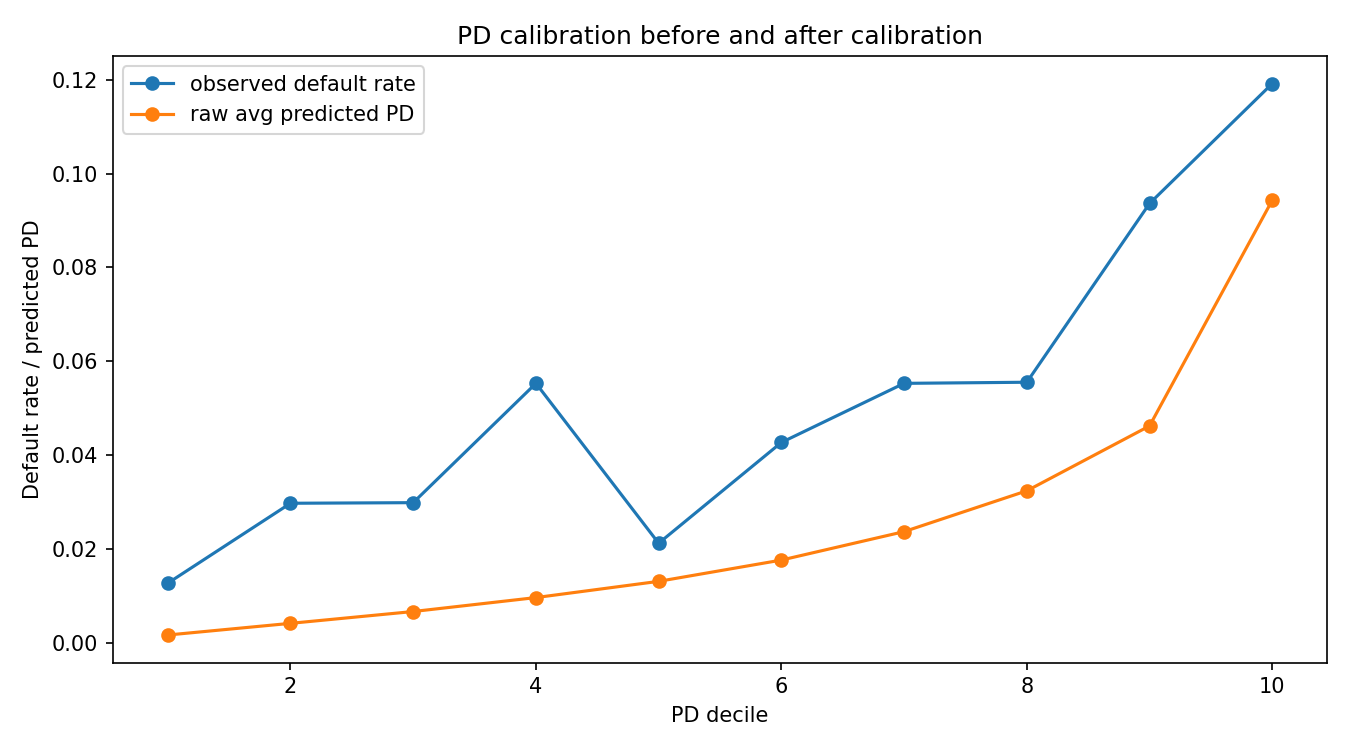
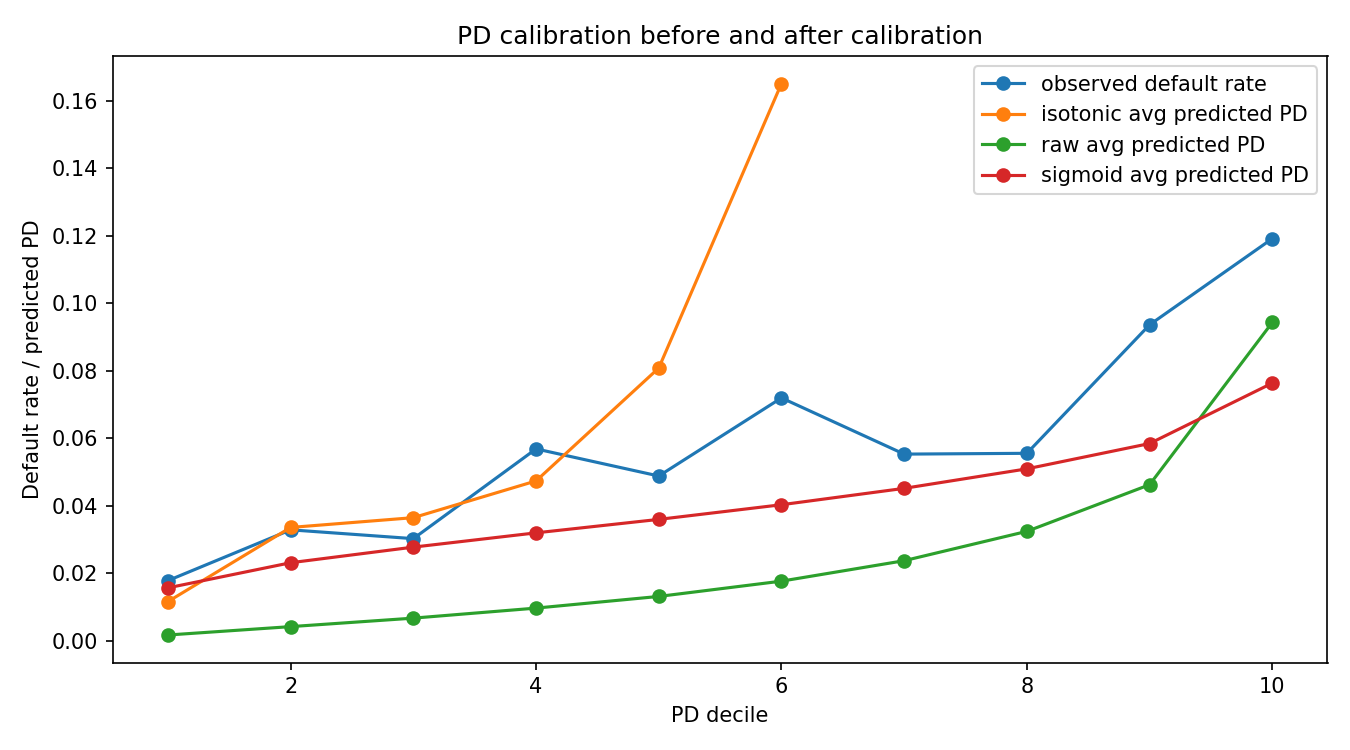
fix pd probability calibration

diff --git a/tests/test_pd_probability_calibration.py b/tests/test_pd_probability_calibration.py
@@ -23,3 +23,41 @@ def test_build_calibration_before_after_report() -> None:
     assert {"model", "pd_decile", "observed_default_rate", "avg_predicted_pd"}.issubset(report.columns)
     assert set(report["model"]) == {"raw", "sigmoid"}
     assert report["pd_decile"].min() >= 1
+
+
+def test_fit_prefit_calibrator_returns_probabilities() -> None:
+    from sklearn.linear_model import LogisticRegression
+
+    from src.pd_probability_calibration import (
+        fit_prefit_calibrator,
+        predict_positive_proba,
+    )
+
+    X_train = pd.DataFrame(
+        {
+            "x1": [
+                0.00, 0.05, 0.10, 0.15, 0.20,
+                0.80, 0.85, 0.90, 0.95, 1.00,
+            ],
+            "x2": [
+                1.00, 0.95, 0.90, 0.85, 0.80,
+                0.20, 0.15, 0.10, 0.05, 0.00,
+            ],
+        }
+    )
+    y_train = pd.Series([0, 0, 0, 0, 0, 1, 1, 1, 1, 1])
+
+    model = LogisticRegression()
+    model.fit(X_train, y_train)
+
+    calibrator = fit_prefit_calibrator(
+        fitted_model=model,
+        X_valid=X_train,
+        y_valid=y_train,
+        method="sigmoid",
+    )
+
+    scores = predict_positive_proba(calibrator, X_train)
+
+    assert len(scores) == len(X_train)
+    assert ((scores >= 0) & (scores <= 1)).all()

diff --git a/src/pd_probability_calibration.py b/src/pd_probability_calibration.py
@@ -15,11 +15,26 @@ def fit_prefit_calibrator(
     y_valid: pd.Series,
     method: str,
 ):
-    calibrator = CalibratedClassifierCV(
-        estimator=fitted_model,
-        method=method,
-        cv="prefit",
-    )
+    """Calibrate an already fitted estimator on a validation sample.
+
+    Newer scikit-learn versions replaced cv="prefit" with FrozenEstimator.
+    The fallback keeps the code compatible with older versions.
+    """
+
+    try:
+        from sklearn.frozen import FrozenEstimator
+
+        calibrator = CalibratedClassifierCV(
+            estimator=FrozenEstimator(fitted_model),
+            method=method,
+        )
+    except ImportError:
+        calibrator = CalibratedClassifierCV(
+            estimator=fitted_model,
+            method=method,
+            cv="prefit",
+        )
+
     calibrator.fit(X_valid, y_valid)
     return calibrator
 
